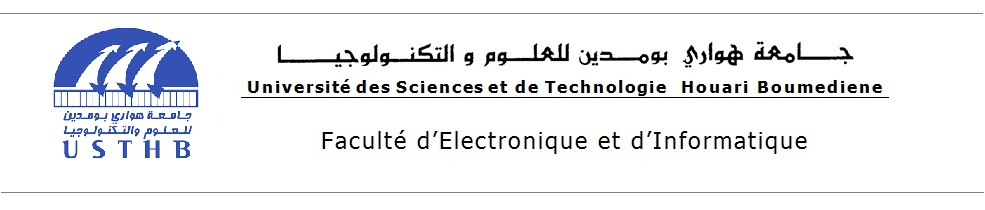
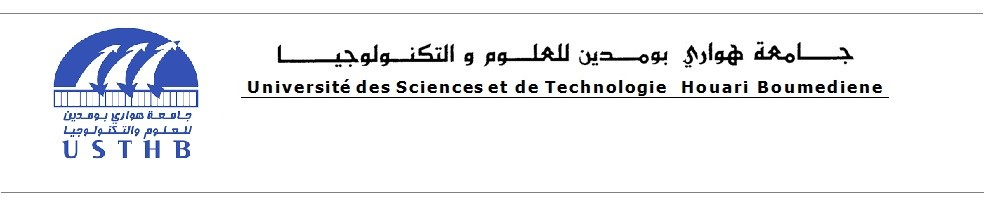
modif

Changed region(s): [[0.3046, 0.6286, 0.8223, 0.7143], [0.0914, 0.5429, 0.1827, 0.5714]]

diff --git a/graphique.py b/graphique.py
@@ -874,7 +874,7 @@ class Ui_MainWindow(object):
         self.label.setText(_translate("MainWindow", "Gestion des certificats de scolarité"))
         self.label_USTHB.setText(_translate("MainWindow", "Université des Sciences et Technologie Houari Boumediene"))
         self.faculteCombo.setItemText(0, _translate("MainWindow", "Faculté d\'électronique et d\'informatique"))
-        self.faculteCombo.setItemText(1, _translate("MainWindow", "Faculté de Génie Civile"))
+        self.faculteCombo.setItemText(1, _translate("MainWindow", "Faculté de Génie Civil"))
         self.label_2.setText(_translate("MainWindow", "Choisir faculté"))
         self.validerBtn.setText(_translate("MainWindow", "Valider"))
         self.faculte = None
@@ -1068,7 +1068,7 @@ class Ui_MainWindow(object):
 
             c = canvas.Canvas(file)
 
-            c.drawImage("entete2.jpg", 0, 10*inch, iw*0.6, ih*0.6, preserveAspectRatio=True)
+            c.drawImage("entete.jpg", 0, 10*inch, iw*0.6, ih*0.6, preserveAspectRatio=True)
             c.setFont("Helvetica", 16)
             c.drawCentredString(5*inch, 10.5*inch, self.faculte)
 
